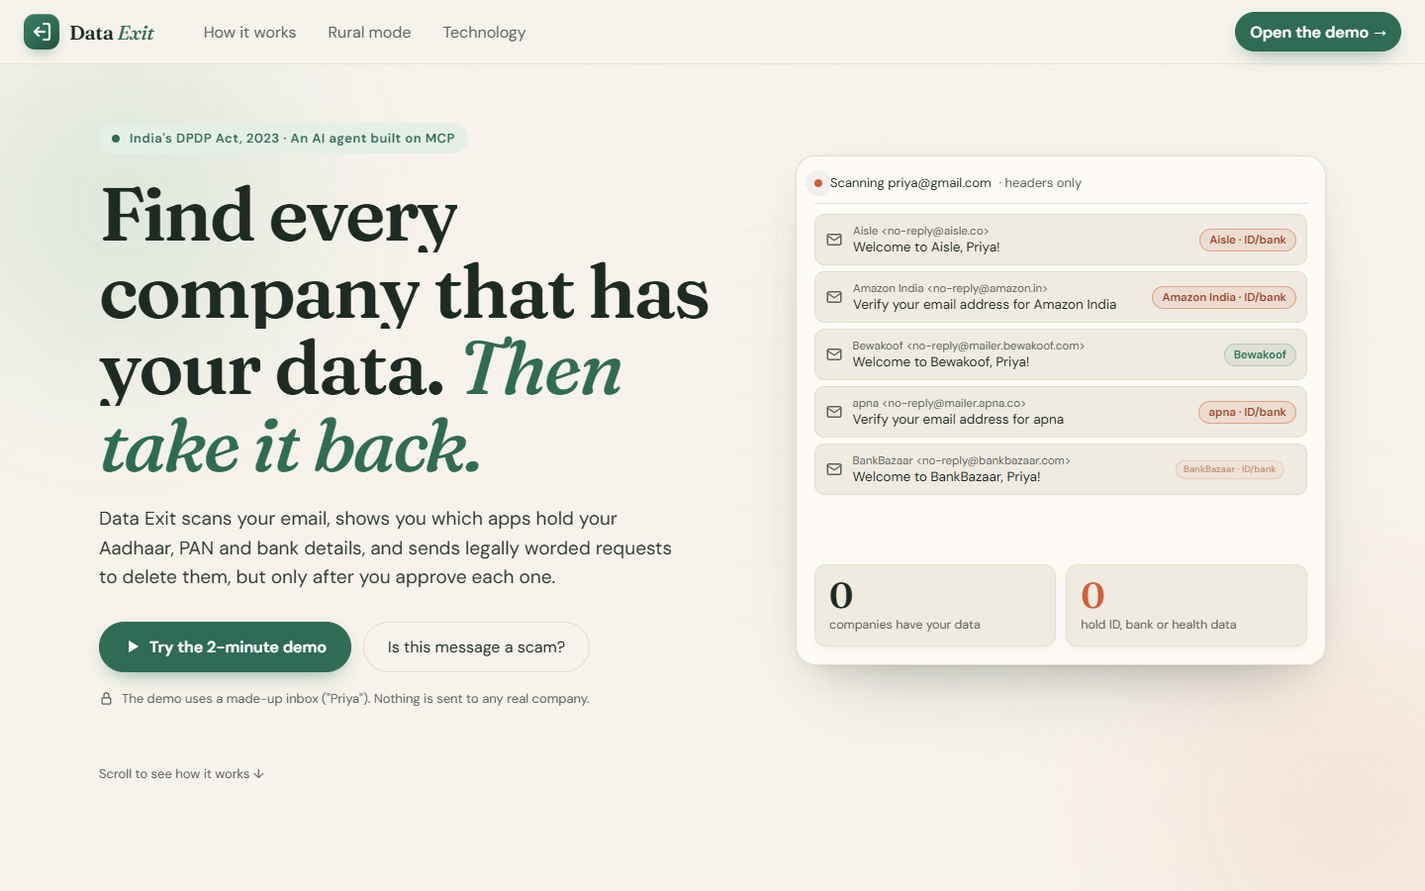
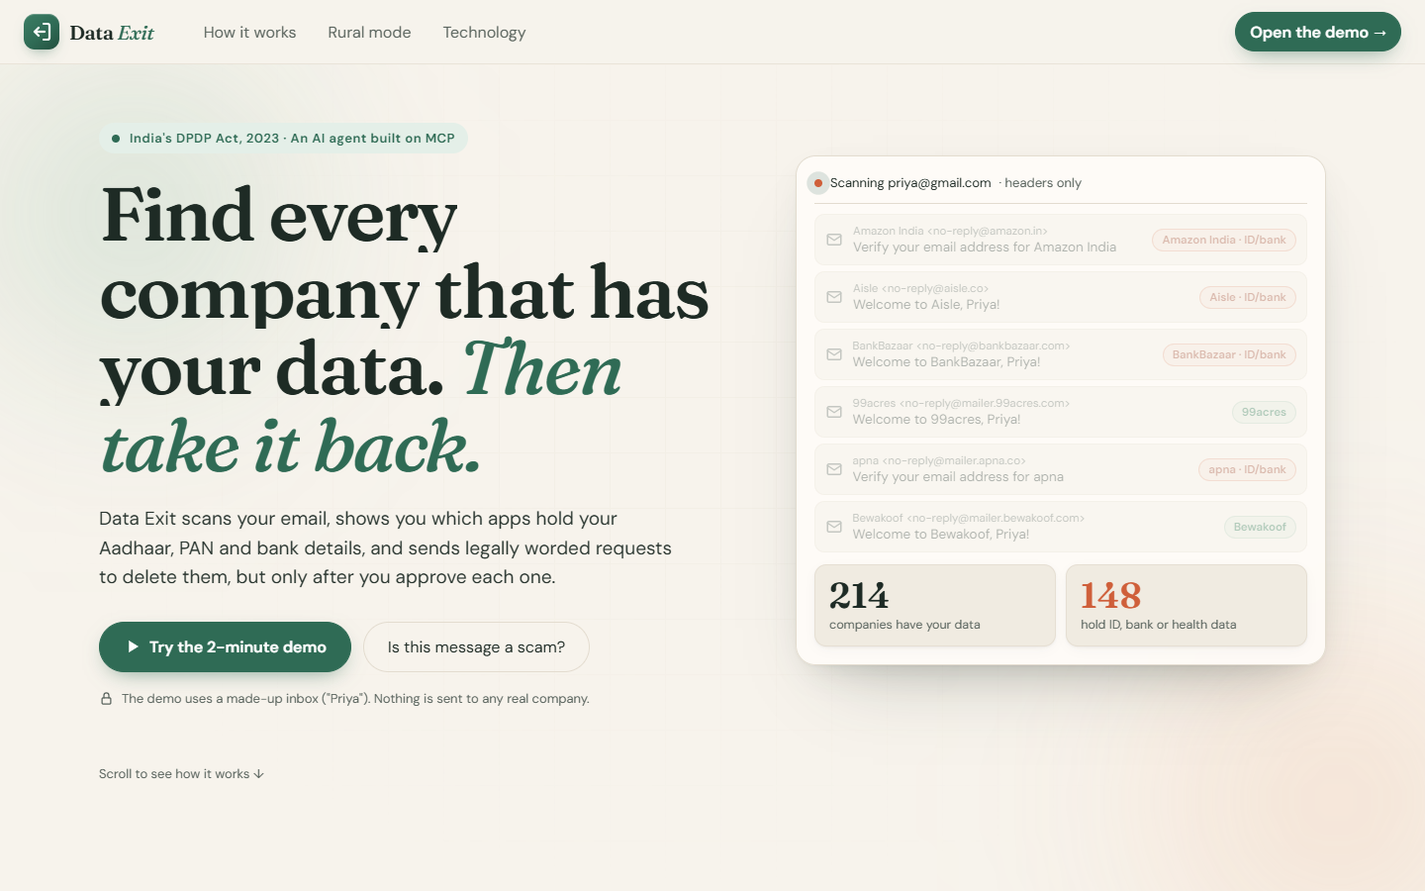
README: scenario walkthrough with fresh screenshots from the live demo
Follow Priya through Discover, Approve (Hindi draft, 10-minute undo, audit log)
and Track (report card, Gaana escalation), plus rural scam check in Hindi and
English, phone views, law/control/MCP sections. 17 screenshots in docs/img.

diff --git a/README.md b/README.md
@@ -1,55 +1,197 @@
+<div align="center">
+
 # Data Exit
 
-**Take your data back.** Data Exit is an MCP-powered agent that finds every company holding an Indian user's personal data, then helps them withdraw consent, correct it, restrict it or erase it under the **DPDP Act, 2023**. It works inside apps people already use (Gmail, Calendar, WhatsApp), and the user approves every sensitive action.
+### Find every company that has your data. Then take it back.
 
-**Rural mode** turns the same agent into a voice-first scam shield: forward a suspicious SMS or say it out loud, and hear back in Hindi or Kannada whether it is a scam and what to do next.
+An MCP-powered agent that helps Indian users find out which companies hold their personal data and use their rights under the **DPDP Act, 2023**.
+It works inside apps people already use (Gmail, Calendar, WhatsApp), and **nothing is sent until the user approves it**.
 
-> City users need to take back their data. Village users need to stop losing their savings. The same agent does both.
+[![Live demo](https://img.shields.io/badge/▶_Live_demo-AWS_Lambda_·_Mumbai-2f6b55?style=for-the-badge)](https://isozxdci5aem2ewbe7utcwv6i40oulpk.lambda-url.ap-south-1.on.aws/)
 
-wHACKiest 2026 · **Track 1: Make MCP Matter** · Bonus tracks: **Best Use of AWS**, **Best Use of ElevenLabs** · Team **Data Exit**, Dr. Ambedkar Institute of Technology
+![Track 1: Make MCP Matter](https://img.shields.io/badge/wHACKiest_2026-Track_1:_Make_MCP_Matter-1e2b25)
+![Best Use of AWS](https://img.shields.io/badge/bonus-Best_Use_of_AWS-c2410c)
+![Best Use of ElevenLabs](https://img.shields.io/badge/bonus-Best_Use_of_ElevenLabs-c2410c)
+![Tests](https://img.shields.io/badge/tests-16%2F16_passing-2f6b55)
+![Lighthouse a11y](https://img.shields.io/badge/accessibility-100-2f6b55)
+![TypeScript](https://img.shields.io/badge/TypeScript-Node_22-3178c6)
 
-### ▶ Live demo: https://isozxdci5aem2ewbe7utcwv6i40oulpk.lambda-url.ap-south-1.on.aws/
+<img src="docs/img/home.png" alt="Data Exit landing page: an inbox scan finds 214 companies holding Priya's data, 148 of them holding ID, bank or health data" width="100%">
 
-| Jump to | What you'll see |
-| --- | --- |
-| [Landing page](https://isozxdci5aem2ewbe7utcwv6i40oulpk.lambda-url.ap-south-1.on.aws/) | What Data Exit does in plain language: the problem, your DPDP rights, how it works, safety rules, rural mode |
-| [Data map](https://isozxdci5aem2ewbe7utcwv6i40oulpk.lambda-url.ap-south-1.on.aws/#map) | 214 companies found in a demo inbox, 61 unused for 3+ years, 12 holding Aadhaar, PAN, bank or health data |
-| [Review & approve](https://isozxdci5aem2ewbe7utcwv6i40oulpk.lambda-url.ap-south-1.on.aws/#review-demo) | 12 drafted requests: 10 erase, 2 banks switched to restrict-use by RBI KYC rules, 10-minute undo, audit log |
-| [Tracker](https://isozxdci5aem2ewbe7utcwv6i40oulpk.lambda-url.ap-south-1.on.aws/#tracker) | Replies classified, WhatsApp-style digest, one-tap escalation to the grievance officer, company report card |
-| [Rural: scam check](https://isozxdci5aem2ewbe7utcwv6i40oulpk.lambda-url.ap-south-1.on.aws/#rural) | Tap a sample or speak; the verdict comes from `check_scam` on AWS Lambda and is read aloud by ElevenLabs |
+**City users need to take back their data. Village users need to stop losing their savings. The same agent does both.**
 
-The live site uses a seeded demo persona ("Priya Demo"), never a real inbox. Nothing is sent to any company: `SEND_MODE=sandbox`.
+[Walkthrough](#-a-walkthrough-follow-priya) · [Rural mode](#-rural-mode-is-this-message-a-scam) · [Why MCP](#-why-mcp) · [What's real](#-whats-real-and-whats-mocked) · [Run it](#-run-it-locally) · [Team](#-team)
 
-| Landing page | Step 1: Discover (data map) |
-| --- | --- |
-| ![Landing page](docs/img/home.png) | ![Data map with Kotak Mahindra Bank selected](docs/img/map.png) |
-| **Step 2: Approve (Kotak switched to restrict-use)** | **Step 3: Track (escalate Gaana)** |
-| ![Review and approve](docs/img/review.png) | ![Tracker](docs/img/tracker.png) |
-| **Rural: scam check, live verdict from AWS Lambda** | **On a phone** |
-| ![Rural scam check](docs/img/rural.png) | <img src="docs/img/mobile.png" alt="Landing page on a phone" width="260"> |
+</div>
 
-## The problem
+---
 
-- **69%** of Indians don't know they can take back consent they gave to a company (PwC India survey of 3,233 consumers, Oct 2024).
-- **1 in 5** families with a UPI user was hit by UPI fraud in the last 3 years, and half never complained (LocalCircles, Jun 2025).
-- **₹4,058 crore** lost to "digital arrest" scams since 2022 (government data, to May 2026).
-Sources for every number: [docs/research/sources.md](docs/research/sources.md).
+## 🧭 The problem
 
-- The DPDP Act gives every Indian the right to withdraw consent, access, correct and erase their data. But nobody knows *which* companies hold their data, *who* to write to, or *what* to say.
+| **69%** | **1 in 5** | **₹4,058 crore** |
+| :---: | :---: | :---: |
+| of Indians don't know they can take back consent they gave to a company | families with a UPI user were hit by UPI fraud in the last 3 years, and half never complained | lost to "digital arrest" scams since 2022 |
+| <sub>PwC India survey of 3,233 consumers, Oct 2024</sub> | <sub>LocalCircles, Jun 2025</sub> | <sub>Government data, to May 2026</sub> |
 
-## What Data Exit does (the five-step loop)
+The DPDP Act gives every Indian the right to withdraw consent, access, correct and erase their data. But nobody knows **which** companies hold their data, **who** to write to, or **what** to say. Data Exit answers all three.
+<sub>Sources for every number: [docs/research/sources.md](docs/research/sources.md)</sub>
 
-1. **Discover.** Reads Gmail *headers only* (signup, OTP, receipt and welcome emails) and matches senders against a 290-company Indian directory. No email bodies are stored.
-2. **Prioritise.** Scores each company 0–100 on data sensitivity (Aadhaar, PAN, bank, health), breadth and dormancy, and draws a data map.
-3. **Draft.** Writes the right request (withdraw consent, access, correct, erase, restrict) in English or Hindi, addressed to the verified grievance officer, citing the email it came from.
-4. **Approve and send.** Approval tiers decide what needs a tap and what needs a full review. Erasure and anything to a bank, insurer, hospital or government body gets full review and a 10-minute undo. Sends go from the user's own Gmail, with a Calendar reminder at the deadline.
-5. **Follow through.** Classifies replies (confirmed, ID requested, refused for retention, redirected), escalates to the grievance officer and drafts a Data Protection Board complaint, exports an evidence ZIP, and sends a weekly digest.
+<div align="center">
+<img src="docs/img/home-how.png" alt="How Data Exit works: Discover, Prioritise, Request with your approval, Follow through" width="92%">
+</div>
 
-**It knows the law.** RBI KYC, PMLA, SEBI, telecom, insurance and medical retention rules turn an erase request into restrict-use, so a bank's lawful refusal isn't a dead end. Tax records are not exempt. Before 13 May 2027 (when data-principal rights take effect), every request is labelled a policy-based (courtesy) request.
+---
 
-## Why MCP (Track 1)
+## 🎬 A walkthrough: follow Priya
 
-Data Exit is 23 MCP tools across five servers, orchestrated by Claude. It goes well beyond wrapping one API:
+The live demo runs on a seeded persona, **"Priya Demo"**, with a deterministic inbox of 656 messages. It never touches a real inbox, and nothing is sent to any company (`SEND_MODE=sandbox`). Every screenshot below is from the [live site](https://isozxdci5aem2ewbe7utcwv6i40oulpk.lambda-url.ap-south-1.on.aws/).
+
+### Step 1 · Discover: "Who has my data?"
+
+Data Exit reads Gmail **headers only** (sign-up, OTP, receipt and welcome emails) and matches senders against a directory of **290 Indian companies**. Priya's inbox turns up **214 companies**; **61** she hasn't used in 3+ years, and **12** of those hold her Aadhaar, PAN, bank or health data.
+
+Each dot is a company. The further out it sits, the longer Priya has gone without using it; orange means it holds sensitive data. Clicking **Kotak Mahindra Bank** shows the email that revealed it, what data it probably holds, and a warning that RBI KYC rules mean the bank must keep some of it.
+
+<img src="docs/img/map.png" alt="Data map: 214 companies around Priya, filtered to the 12 high-risk dormant ones, with Kotak Mahindra Bank selected in the side panel" width="100%">
+
+> **Try it:** [open the data map](https://isozxdci5aem2ewbe7utcwv6i40oulpk.lambda-url.ap-south-1.on.aws/#map) and press **Select the 12 riskiest**.
+
+### Step 2 · Approve: one request per company, and the user signs off
+
+Data Exit drafts one request per company, addressed to its grievance officer and citing the email it came from. Of Priya's 12, **10 are erase requests**. The **2 banks are switched to restrict-use**, because the law requires them to keep KYC records and an erase request would only be refused.
+
+<img src="docs/img/review.png" alt="Review and approve: 12 drafted requests, 10 erase, 2 switched to restrict-use by law, 0 sent" width="100%">
+
+<table>
+<tr>
+<td width="50%" valign="top">
+
+**Kotak gets a restrict-use request, in Hindi.** Each draft can be read in English or हिन्दी before approving. Before 13 May 2027 every request is labelled a *policy-based (courtesy)* request, and DPDP section numbers stay marked `[verify]` until they have been checked.
+
+<img src="docs/img/review-email-hi.png" alt="Kotak Mahindra Bank card: erase switched to restrict use under RBI KYC, PMLA and tax rules, with the Hindi draft open" width="100%">
+
+</td>
+<td width="50%" valign="top">
+
+**A 10-minute undo on every high-risk send.** Erasure, and anything sent to a bank, insurer, hospital or government body, needs a **full review** of the exact text. After approval the request waits 10 minutes before it leaves, so the user can still change their mind.
+
+<img src="docs/img/review-undo.png" alt="BankBazaar card after approval: Sending in 09:56 with an Undo button" width="100%">
+
+**Every action is audit-logged.** Agent proposals, user approvals and sends go into a SHA-256 hash chain that the user can verify.
+
+<img src="docs/img/audit.png" alt="Audit log drawer: 16 hash-chained events (propose, approve, send), with Hash chain intact" width="100%">
+
+</td>
+</tr>
+</table>
+
+> **Try it:** [jump straight to the 12 drafts](https://isozxdci5aem2ewbe7utcwv6i40oulpk.lambda-url.ap-south-1.on.aws/#review-demo).
+
+### Step 3 · Track: deadlines, replies, report cards and escalation
+
+Every request gets a 90-day deadline, which is also added to Google Calendar. Data Exit classifies the replies (confirmed, ID requested, refused for retention, redirected) and grades each company. Priya's weekly WhatsApp digest reads: *"5 confirmed deletion, 1 asked for ID, 1 ignored you. Escalate?"*
+
+<table>
+<tr>
+<td width="50%" valign="top">
+
+**Report card.** 6 of 7 companies replied, with a median reply time of 14 days. Quikr asked for ID, so Data Exit tells Priya to reply from her registered email and **never send an Aadhaar or PAN copy** unless she chooses to.
+
+<img src="docs/img/tracker.png" alt="Tracker: request timeline, WhatsApp weekly digest and company report card with grades A, B, C and F" width="100%">
+
+</td>
+<td width="50%" valign="top">
+
+**Gaana ignored the deadline, so escalate.** One tap drafts a grievance-officer escalation (English or Hindi) citing the original request. It still needs Priya's approval before it is sent.
+
+<img src="docs/img/tracker-escalate.png" alt="Escalation to Gaana's grievance officer drafted, with an Approve escalation button" width="100%">
+
+</td>
+</tr>
+</table>
+
+> **Try it:** [open the tracker](https://isozxdci5aem2ewbe7utcwv6i40oulpk.lambda-url.ap-south-1.on.aws/#tracker) and press **Escalate Gaana**.
+
+---
+
+## ⚖ It knows the law, so you don't hit a dead end
+
+**RBI KYC, PMLA, SEBI, telecom, insurance and medical** retention rules turn an erase request into a **restrict-use** request, so a bank's lawful refusal isn't a dead end. Tax records are not exempt. A valid retention refusal of erasure is never escalated.
+
+<div align="center">
+<img src="docs/img/home-law.png" alt="You: Erase my data at Kotak Mahindra Bank. Data Exit: RBI KYC Directions + PMLA, banks must keep KYC records. Erase data becomes Restrict use." width="92%">
+</div>
+
+## 🛡 You stay in control
+
+An agent that sends legal letters for you has to be trustworthy. These rules are built into the code in `packages/policy`; they are not just promises in the UI.
+
+<div align="center">
+<img src="docs/img/home-control.png" alt="Five guarantees: approval before anything is sent, 10-minute undo, tamper-proof audit log, shows its source, never asks for OTP, PIN or Aadhaar" width="92%">
+</div>
+
+| Approval tier | What it covers | What happens |
+| --- | --- | --- |
+| `auto` | Stop marketing | Runs without asking **only** if the user turned on `auto_low_risk` |
+| `one_tap` | Withdraw consent, access, correction, restrict | Needs one tap to approve |
+| `full_review` | Erasure; **any** request to banks, insurers, government or health | Full text shown, `reviewed: true`, then a 10-minute undo window |
+
+---
+
+## 📱 Rural mode: "Is this message a scam?"
+
+For people in villages, the biggest data risk is fraud, not marketing email. Forward a suspicious SMS or say it out loud, and the bot replies in **Hindi, English or Kannada** with a verdict, the reasons, and what to do next, including calling **1930**. The verdict comes from the real `check_scam` MCP tool running on **AWS Lambda (Mumbai)**, and **ElevenLabs** reads the answer aloud.
+
+<img src="docs/img/rural.png" alt="Rural mode: a forwarded fake bank-KYC SMS gets a Hindi verdict 'धोखा' (scam), with reasons and next steps, from check_scam on AWS Lambda, score 75/100" width="100%">
+
+<table>
+<tr>
+<td width="34%" valign="top" align="center">
+
+<img src="docs/img/rural-en-phone.png" alt="English verdict: an electricity-disconnection threat is flagged as a scam by check_scam on AWS Lambda" width="100%">
+
+<sub>**English:** "Your electricity will be cut tonight" is flagged as a scam, with steps to report it on Sanchar Saathi's Chakshu.</sub>
+
+</td>
+<td width="66%" valign="top">
+
+**What the rural bot always does**
+
+- Opens **every** conversation with: *"I will never ask for your OTP, PIN or Aadhaar number."*
+- Explains **why** a message is a scam (urgency, KYC threat, unknown short link, cut-off threat) so people learn the pattern.
+- Gives concrete next steps: don't click, report on **Sanchar Saathi Chakshu**, call **1930** if money was taken.
+- Quick actions: *Lost money?* · *Check SIMs in my name* · *Clean up a loan app*.
+- Eight sample scams to try: bank KYC, electricity bill, farmer scheme, QR cashback, digital arrest, lottery, part-time job, and a **real** OTP SMS (to show it doesn't cry wolf).
+
+> **Try it:** [open the scam check](https://isozxdci5aem2ewbe7utcwv6i40oulpk.lambda-url.ap-south-1.on.aws/#rural) and tap a sample, or press 🎤 and speak.
+
+</td>
+</tr>
+</table>
+
+## 📲 Works on a phone
+
+Built for 390 px screens first, because that's where most users are.
+
+<div align="center">
+<table>
+<tr>
+<td align="center"><img src="docs/img/mobile-home.png" alt="Landing page on a phone" width="250"><br><sub>Landing</sub></td>
+<td align="center"><img src="docs/img/mobile-map.png" alt="Step 1 data map on a phone: 214, 61 and 12" width="250"><br><sub>Step 1: Discover</sub></td>
+<td align="center"><img src="docs/img/mobile-rural.png" alt="Rural scam check on a phone, in Hindi" width="250"><br><sub>Scam check (Hindi)</sub></td>
+</tr>
+</table>
+</div>
+
+---
+
+## 🔌 Why MCP
+
+Data Exit is **23 MCP tools across five servers**, orchestrated by Claude. A single request flows through discovery, legal reasoning, drafting, approval and follow-up. It is much more than a wrapper around one API.
+
+<div align="center">
+<img src="docs/img/home-tech.png" alt="Under the hood: discover_footprint, lookup_company, get_retention_rules, draft_request, approve_request, send_request, check_replies, escalate_request. 5 MCP servers, 23 tools, 290 companies, 16 tests." width="92%">
+</div>
 
 ```
 discover_footprint ─▶ lookup_company ─▶ get_retention_rules ─▶ draft_request ─▶ approve_request ─▶ send_request
@@ -59,41 +201,54 @@ weekly_digest ◀─ escalate_request ◀─ classify_reply ◀─ check_replies
 check_scam (rural mode)    export_evidence    get_audit_log (hash-chained)    delete_my_data
 ```
 
-Every tool call goes through `packages/policy`: an approval-tier check plus an audit event in a SHA-256 hash chain. The agent cannot send anything the user hasn't approved. Details: [docs/architecture/mcp-servers.md](docs/architecture/mcp-servers.md).
+Every tool call goes through `packages/policy`: an approval-tier check plus an audit event in a SHA-256 hash chain. **The agent cannot send anything the user hasn't approved.** Details: [docs/architecture/mcp-servers.md](docs/architecture/mcp-servers.md).
 
-## Sponsor technology
+<details>
+<summary><b>The five-step loop in full</b></summary>
+
+1. **Discover.** Reads Gmail *headers only* (sign-up, OTP, receipt and welcome emails) and matches senders against a 290-company Indian directory. No email bodies are stored.
+2. **Prioritise.** Scores each company 0–100 on data sensitivity (Aadhaar, PAN, bank, health), breadth and dormancy, and draws a data map.
+3. **Draft.** Writes the right request (withdraw consent, access, correct, erase, restrict) in English or Hindi, addressed to the verified grievance officer, citing the email it came from.
+4. **Approve and send.** Approval tiers decide what needs one tap and what needs a full review. Erasure and anything sent to a bank, insurer, hospital or government body gets a full review and a 10-minute undo. Requests are sent from the user's own Gmail, with a Calendar reminder at the deadline.
+5. **Follow through.** Classifies replies (confirmed, ID requested, refused for retention, redirected), escalates to the grievance officer and drafts a Data Protection Board complaint, exports an evidence ZIP, and sends a weekly digest.
+
+</details>
+
+## ☁ Sponsor technology
 
 | | Built and live today | Next (pilot) |
 | --- | --- | --- |
-| **AWS** | Live MVP on **AWS Lambda (ap-south-1, Mumbai)** behind a Function URL. One function serves the web app, runs the real `check_scam` MCP code at `/api/check`, and proxies ElevenLabs at `/api/tts` so the key never reaches the browser. Deploy bundle in S3. | One Lambda per MCP server behind API Gateway; Step Functions + EventBridge for the 30/90-day request clocks; RDS Postgres (schema in [db/schema.sql](db/schema.sql)); S3 Object Lock + KMS for the evidence locker; Cognito + SNS. |
-| **ElevenLabs** | **Multilingual TTS** reads every rural-mode verdict aloud in Hindi and English, and **Kannada** via `eleven_v3`. Browser voice fallback if offline. | **Scribe** speech-to-text for voice notes in Kannada and Hindi; **ElevenLabs Agents + Twilio** missed-call helpline for feature-phone users. |
+| **AWS** | Live MVP on **AWS Lambda (ap-south-1, Mumbai)** behind a Function URL. One function serves the web app, runs the real `check_scam` MCP code at `/api/check`, and proxies ElevenLabs at `/api/tts` so the API key never reaches the browser. The deploy bundle lives in S3. | One Lambda per MCP server behind API Gateway; Step Functions + EventBridge for the 30/90-day request clocks; RDS Postgres (schema in [db/schema.sql](db/schema.sql)); S3 Object Lock + KMS for the evidence locker; Cognito + SNS. |
+| **ElevenLabs** | **Multilingual TTS** reads every rural-mode verdict aloud in Hindi and English, and in **Kannada** via `eleven_v3`. Falls back to the browser's voice if offline. | **Scribe** speech-to-text for voice notes in Kannada and Hindi; **ElevenLabs Agents + Twilio** missed-call helpline for feature-phone users. |
 
 Deployment details: [docs/architecture/deployment-aws.md](docs/architecture/deployment-aws.md).
 
-## What's real and what's mocked
+## ✅ What's real and what's mocked
 
 | Part | Status |
 | --- | --- |
-| MCP servers (discovery, directory, request engine, tracker, scam shield) | **Real.** Built and tested: `npm test` runs 16 tests (unit, Postgres store contract, end-to-end, MCP protocol). |
-| Gmail discovery and sending, Calendar deadlines | **Real** via our own OAuth client. Offline fixture backend for demos (`GMAIL_BACKEND=fixture`). Live sends are disabled (`SEND_MODE=sandbox`). |
-| Policy layer: tiers, 10-minute undo, hash-chained audit | **Real**, in `packages/policy`, and mirrored in the web UI (SubtleCrypto SHA-256). |
-| Company directory | **Real data**: 290 Indian companies. 7 grievance contacts verified from each company's privacy policy; the rest are `verified: false` and never guessed. |
-| `check_scam` + ElevenLabs voice | **Real and live** on AWS Lambda. |
-| Web app (data map, approvals, tracker) | **Real UI on seeded data**: a deterministic demo inbox of 656 messages. Next step: point `apps/web/src/api.ts` at the MCP HTTP server. |
-| WhatsApp bot, SMS on Android, missed-call line | **Designed, not built.** The rural UI is a WhatsApp-style mock-up. |
+| MCP servers (discovery, directory, request engine, tracker, scam shield) | ✅ **Real.** Built and tested: `npm test` runs 16 tests (unit, Postgres store contract, end-to-end, MCP protocol). |
+| Gmail discovery and sending, Calendar deadlines | ✅ **Real** via our own OAuth client. Offline fixture backend for demos (`GMAIL_BACKEND=fixture`). Live sends are disabled (`SEND_MODE=sandbox`). |
+| Policy layer: tiers, 10-minute undo, hash-chained audit | ✅ **Real**, in `packages/policy`, and mirrored in the web UI (SubtleCrypto SHA-256). |
+| Company directory | ✅ **Real data**: 290 Indian companies. 7 grievance contacts are verified from each company's privacy policy; the rest are `verified: false` and never guessed. |
+| `check_scam` + ElevenLabs voice | ✅ **Real and live** on AWS Lambda. |
+| Web app (data map, approvals, tracker) | 🟡 **Real UI on seeded data**: a deterministic demo inbox of 656 messages. Next step: point `apps/web/src/api.ts` at the MCP HTTP server. |
+| WhatsApp bot, SMS on Android, missed-call line | ⚪ **Designed, not built.** The rural UI is a WhatsApp-style mock-up. |
 
-## Quality, measured
+## 📊 Quality, measured
 
 | Lighthouse | Performance | Accessibility | Best practices | SEO |
-| --- | --- | --- | --- | --- |
+| --- | :---: | :---: | :---: | :---: |
 | Desktop | 97 | 100 | 100 | 100 |
 | Mobile | 90 | 100 | 100 | 100 |
 
-16/16 tests pass · 0 console errors across all views · accessibility 100 on all 5 views · works at 390 px wide. Details and before/after: [docs/hackathon/metrics.md](docs/hackathon/metrics.md).
+16/16 tests pass · 0 console errors across all views · accessibility 100 on all 5 views · works at 390 px wide. Details and before/after numbers: [docs/hackathon/metrics.md](docs/hackathon/metrics.md).
 
-## Run it locally
+---
 
-Node 22+.
+## 🚀 Run it locally
+
+Requires Node 22+.
 
 ```bash
 npm install
@@ -104,9 +259,11 @@ npm start           # all MCP tools in one server over stdio (Claude Code reads 
 npm run start:http  # same over HTTP for claude.ai custom connectors (needs MCP_HTTP_SECRET)
 ```
 
-Connect to Claude Desktop, claude.ai or real Gmail: [docs/development/setup.md](docs/development/setup.md). Redeploy the live site: [docs/architecture/deployment-aws.md](docs/architecture/deployment-aws.md).
+Deep links for the demo: `#map` · `#review-demo` · `#tracker` · `#rural`.
+To connect Claude Desktop, claude.ai or a real Gmail account, see [docs/development/setup.md](docs/development/setup.md). To redeploy the live site, see [docs/architecture/deployment-aws.md](docs/architecture/deployment-aws.md).
 
-## Repository layout
+<details>
+<summary><b>Repository layout</b></summary>
 
 ```
 apps/web/                  Web app: data map (D3), review & approve, tracker, rural scam check (Vite + TypeScript)
@@ -131,7 +288,9 @@ tests/                     unit, store contract, end-to-end, MCP protocol
 docs/                      Product, legal, architecture, hackathon (start at docs/README.md)
 ```
 
-## Safety and privacy by design
+</details>
+
+## 🔒 Safety and privacy by design
 
 - Gmail **metadata first**; email bodies are never stored. SMS would be parsed on the device.
 - **Never** asks for OTP, PIN or Aadhaar, and says so in every rural-mode reply.
@@ -139,9 +298,9 @@ docs/                      Product, legal, architecture, hackathon (start at doc
 - Every suggestion cites the email it came from.
 - `delete_my_data` wipes everything Data Exit stored about the user.
 
-## Team
+## 👥 Team
 
-Team ID: **43af82f0** · Dr. Ambedkar Institute of Technology
+**Team Data Exit** · Team ID **43af82f0** · Dr. Ambedkar Institute of Technology · wHACKiest 2026, Track 1: Make MCP Matter
 
 | Member | Role |
 | --- | --- |
@@ -152,6 +311,6 @@ Team ID: **43af82f0** · Dr. Ambedkar Institute of Technology
 
 Plan and status: [docs/hackathon/build-plan.md](docs/hackathon/build-plan.md) · Submission checklist: [docs/hackathon/submission.md](docs/hackathon/submission.md)
 
-## Disclaimer
+## ⚠ Disclaimer
 
-Data Exit is not a legal service. Request templates are drafts that need a lawyer's review before real use; DPDP section numbers are marked `[verify]`. Before **13 May 2027**, data-principal rights under the DPDP Rules are not yet in force, so requests sent before then are policy-based (courtesy) requests.
+Data Exit is not a legal service. Request templates are drafts that need a lawyer's review before real use, and DPDP section numbers are marked `[verify]`. Before **13 May 2027**, data-principal rights under the DPDP Rules are not yet in force, so requests sent before then are policy-based (courtesy) requests.
